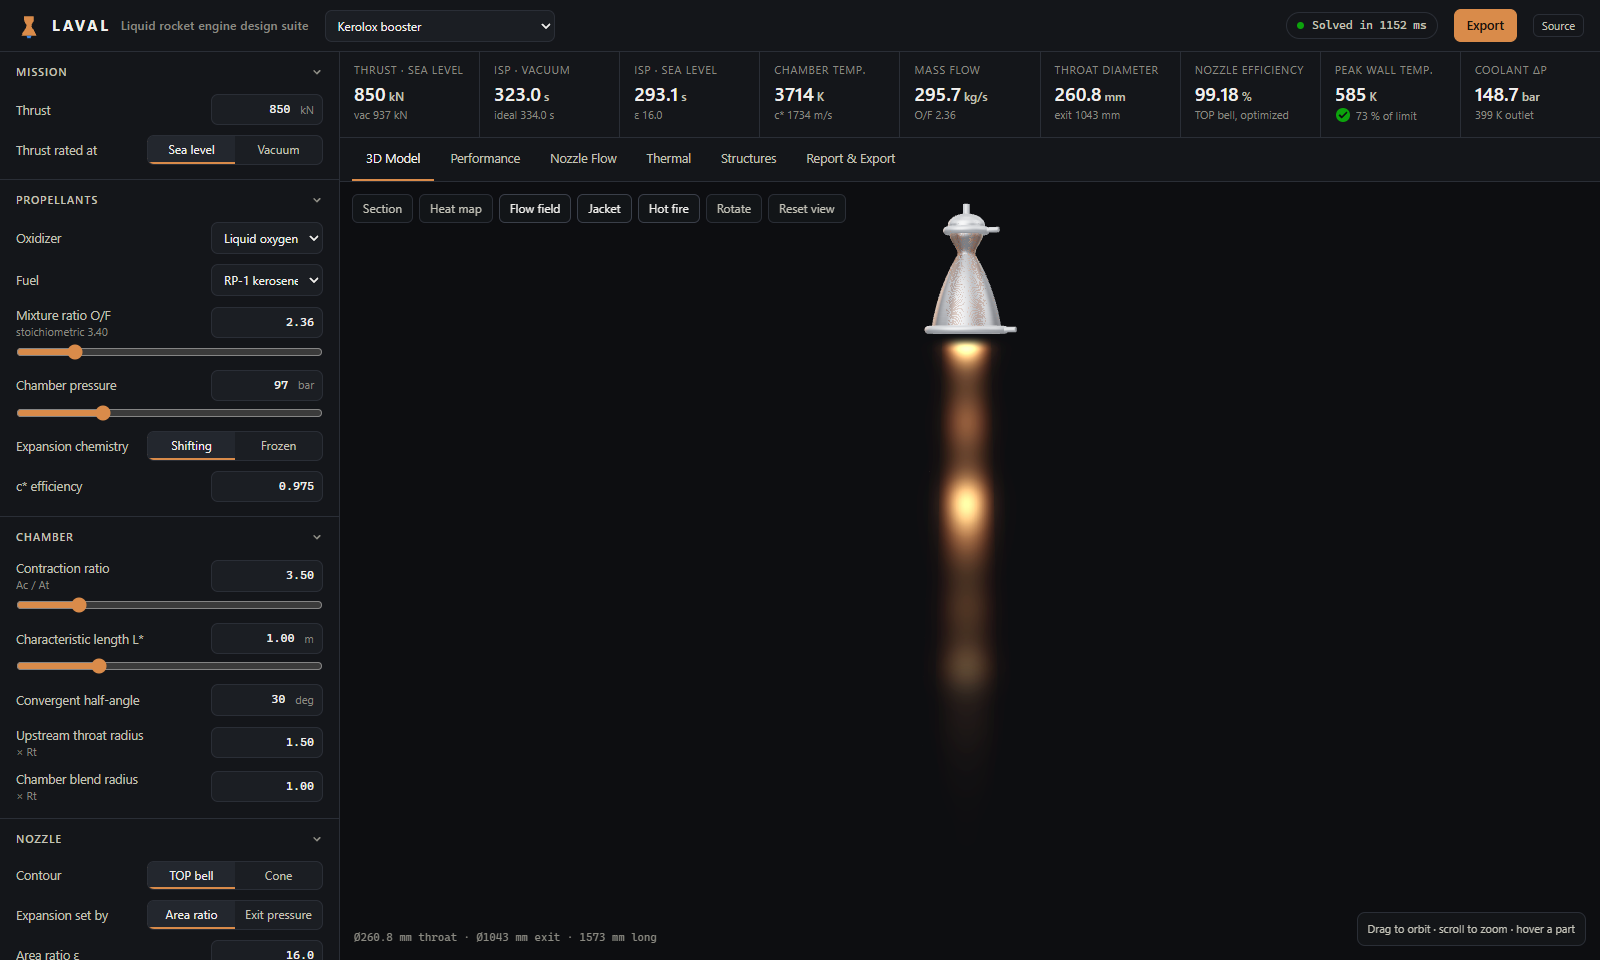
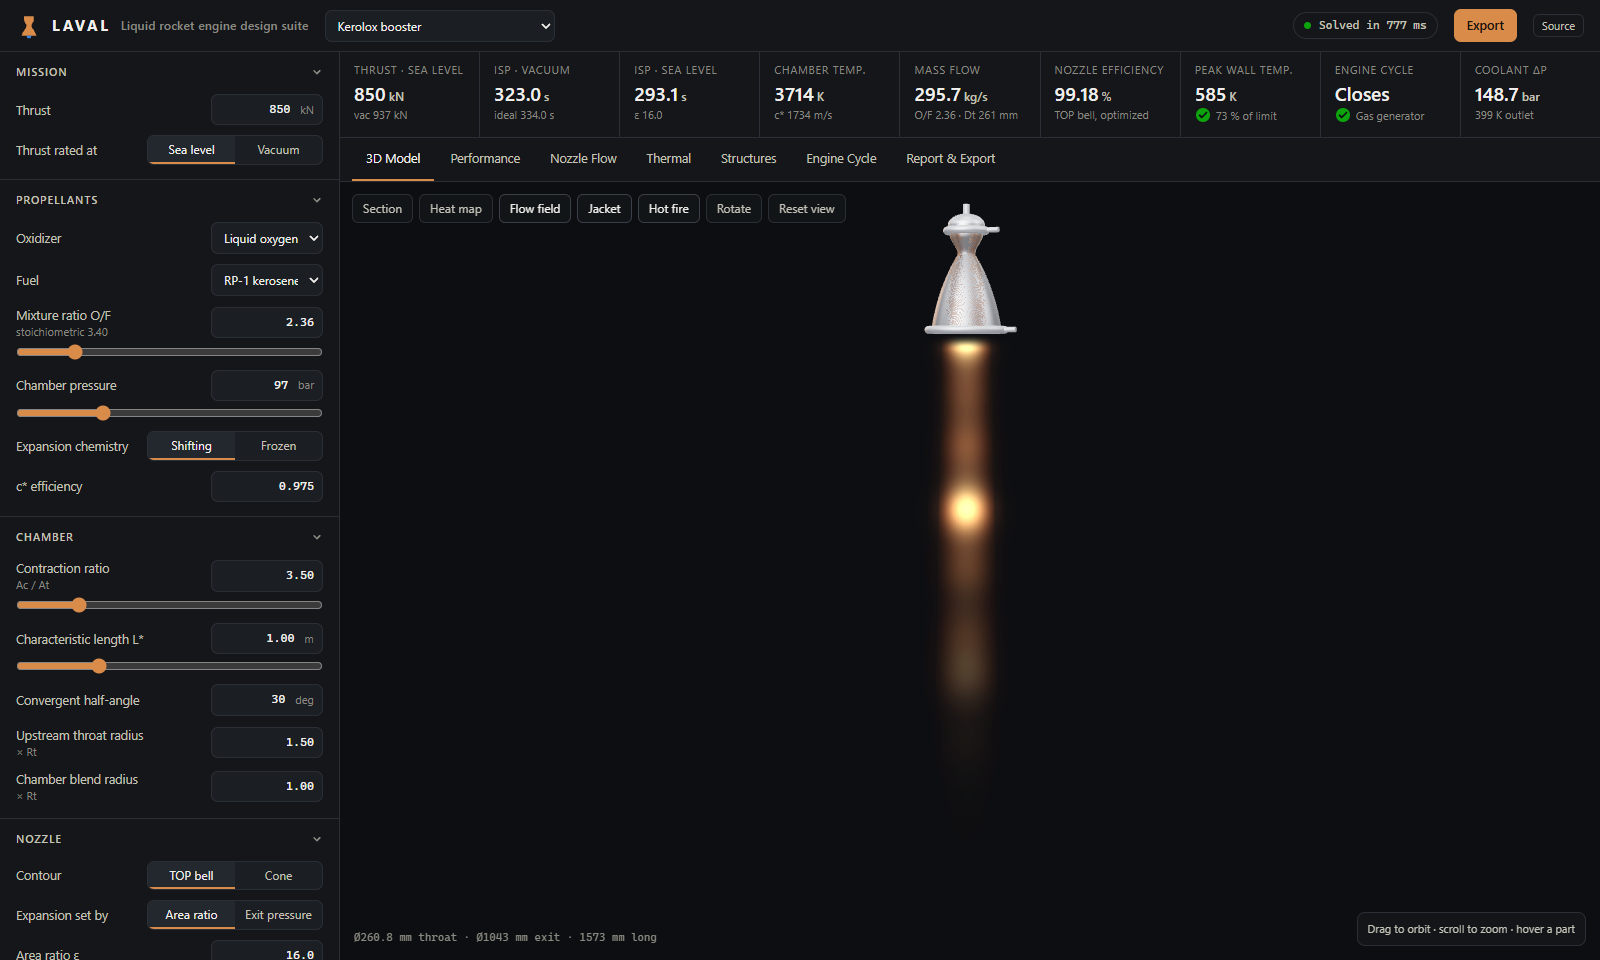
Document the engine cycle analysis, refresh screenshots, add CI badge

diff --git a/README.md b/README.md
@@ -1,8 +1,10 @@
 # Laval: liquid rocket engine design suite
 
+[![CI](https://github.com/zaindahdul/Aero/actions/workflows/ci.yml/badge.svg)](https://github.com/zaindahdul/Aero/actions/workflows/ci.yml)
+
 **From propellant chemistry to a 3D-printable regeneratively cooled thrust chamber, in the browser.**
 
-Laval designs a complete liquid rocket thrust chamber from a handful of requirements (propellants, thrust, chamber pressure). It solves the combustion chemistry, sizes the chamber, optimizes and analyzes the supersonic nozzle flow, designs the regenerative cooling channels, checks structural margins, and generates a watertight solid model you can export to STL or DXF. Every stage is a physics model written from the governing equations and verified against reference solutions: NASA CEA, exact gas-dynamics solutions, and CoolProp.
+Laval designs a complete liquid rocket thrust chamber from a handful of requirements (propellants, thrust, chamber pressure). It solves the combustion chemistry, sizes the chamber, optimizes and analyzes the supersonic nozzle flow, designs the regenerative cooling channels, checks structural margins, closes the turbopump power cycle, and generates a watertight solid model you can export to STL or DXF. Every stage is a physics model written from the governing equations and verified against reference solutions: NASA CEA, exact gas-dynamics solutions, and CoolProp.
 
 ![Methalox booster in half-section with the supersonic Mach field](docs/screenshots/hero.png)
 
@@ -25,6 +27,9 @@ Propellants, O/F, Pc, thrust
  Regenerative cooling ─── Bartz gas side · CoolProp coolant · finned channels that bifurcate
         │                 liner and jacket auto-sized for safety factors · barrier film
         │                 radiation-cooled nozzle extension
+        ▼
+ Engine cycle ─────────── pressure-fed · gas generator · expander · staged · full-flow
+        │                 turbopump power balance, preburner chemistry, pressure ladder
         ▼
  Solid model ──────────── watertight liner, instanced ribs, jacket, manifolds, injector
                           → STL · DXF · CSV · JSON
@@ -53,6 +58,11 @@ A complete design (chemistry, contour optimization with 30 to 60 full flow solut
 - Radiation-cooled extensions and radiatively cooled engines use the wall energy balance h_g(T_aw − T_w) = εσT_w⁴.
 - Checks for coking, boiling, material limits and injector pressure budget.
 
+### Engine cycle
+- Pressure-fed, gas-generator, closed-expander, single-shaft staged combustion (fuel-rich, or oxidizer-rich for kerosene) and full-flow staged combustion, built on the converged chamber design.
+- Gas-generator and preburner mixture ratios come from the equilibrium solver at the turbine-inlet temperature limit. Expander turbine power comes from the coolant's regen heat pickup. Staged-combustion turbine pressure ratios are found as the lowest root of the power balance, since a higher turbine pressure ratio also raises pump discharge pressure.
+- The results reproduce known cycle behaviour from first principles. The hydrolox expander closes with about 28 % margin at a 240–250 K, PR ≈ 1.5 turbine. A 200 bar methalox engine closes as full-flow staged combustion but not as single-shaft fuel-rich, because methane-rich gas (γ ≈ 1.15) yields too little work per unit pressure ratio. The kerolox gas generator burns 7 % of the propellant and costs 14 s of Isp.
+
 ### CAD kernel
 - Revolved shells with normal-offset layers, swept rib solids (one geometry per bifurcation level, instanced by rotation), auto-sized jacket, manifolds, injector plate, dome and element posts.
 - Every body is verified watertight and outward-oriented in the test suite.
@@ -60,7 +70,7 @@ A complete design (chemistry, contour optimization with 30 to 60 full flow solut
 
 ## Verification
 
-Each row is enforced by `npm test` (304 tests).
+Each row is enforced by `npm test` (312 tests), which runs on every push in CI.
 
 | Model | Reference | Result |
 |---|---|---|
@@ -71,6 +81,8 @@ Each row is enforced by `npm test` (304 tests).
 | Bell optimizer | Rao's TOP charts | Optimal angles inside the published band; longer bells strictly better |
 | Coolant properties | CoolProp | ρ within 1 %, cp within 3 % near the pseudo-critical line, μ and k within 2 % |
 | Engine pipeline | Conservation laws | F = ṁ·Isp·g0 exactly; coolant Q = ṁΔh within 2 %; all five presets inside material limits |
+| Engine cycles | Power balance and known cycle behaviour | Turbine power = pump power to 1e-6; expander heat-limited with Pc; full-flow closes where single-shaft methane cannot |
+| Robustness | 40 randomized designs | Every case solves or fails with an actionable message; no non-finite results |
 | Solid model | Closed-manifold and volume checks | Watertight, outward-oriented bodies; mass within 6 % of the thermal model |
 
 ## Screenshots
@@ -80,23 +92,24 @@ Each row is enforced by `npm test` (304 tests).
 | ![Flow field](docs/screenshots/nozzle-flow.png) **Nozzle flow**: characteristic net (upper half) over the Mach field, internal shock origin marked | ![Thermal](docs/screenshots/thermal.png) **Thermal**: wall and coolant temperatures, heat flux and transfer coefficients along the chamber |
 | ![Hot fire](docs/screenshots/hot-fire.png) **Hot fire**: plume colour from propellant chemistry, shock-cell spacing from the exit Mach number | ![Heat map](docs/screenshots/heat-map.png) **Radiation-cooled apogee engine**: barrier-cooled niobium wall temperature with the flow field inside |
 | ![Performance](docs/screenshots/performance.png) **Performance**: CEA-style state table, species, O/F and altitude sweeps | ![Hydrolox](docs/screenshots/hydrolox-extension.png) **Hydrolox upper stage**: carbon-carbon extension at 1900 K above a hydrogen-cooled jacket |
+| ![Full-flow cycle](docs/screenshots/engine-cycle.png) **Full-flow staged combustion**: two preburners, pressure ladder from 547 bar pump discharge to the chamber | ![Expander cycle](docs/screenshots/expander-cycle.png) **Closed expander**: turbine driven by regen heat, closing with 28 % margin |
 
 ## Presets
 
-| Preset | Propellants | Thrust | Pc | Notable |
-|---|---|---|---|---|
-| Methalox booster | LOX / CH4 | 2.2 MN (SL) | 200 bar | 360 high-aspect-ratio channels, 3 bifurcations, 3 % barrier film |
-| Kerolox booster | LOX / RP-1 | 850 kN (SL) | 97 bar | CuCrZr liner kept below the RP-1 coking limit |
-| Hydrolox upper stage | LOX / LH2 | 110 kN (vac) | 44 bar | Regen to ε 45, radiation-cooled C/C extension to ε 84 |
-| Student 5 kN ethanol | LOX / ethanol | 5 kN (SL) | 20 bar | Ideally expanded at sea level, supercritical ethanol coolant |
-| Hypergolic apogee | N2O4 / MMH | 450 N (vac) | 10 bar | Fully radiation cooled, niobium wall with barrier cooling |
+| Preset | Propellants | Thrust | Pc | Cycle | Notable |
+|---|---|---|---|---|---|
+| Methalox booster | LOX / CH4 | 2.2 MN (SL) | 200 bar | Full-flow staged | 360 high-aspect-ratio channels, 3 bifurcations, 590 bar coolant |
+| Kerolox booster | LOX / RP-1 | 850 kN (SL) | 97 bar | Gas generator | CuCrZr liner kept below the RP-1 coking limit |
+| Hydrolox upper stage | LOX / LH2 | 110 kN (vac) | 44 bar | Closed expander | Regen to ε 45, radiation-cooled C/C extension to ε 84 |
+| Student 5 kN ethanol | LOX / ethanol | 5 kN (SL) | 20 bar | Pressure-fed | Ideally expanded at sea level, supercritical ethanol coolant |
+| Hypergolic apogee | N2O4 / MMH | 450 N (vac) | 10 bar | Pressure-fed | Fully radiation cooled, niobium wall with barrier cooling |
 
 ## Running it
 
 ```bash
 npm install
 npm run dev      # http://localhost:5173
-npm test         # 304 verification tests
+npm test         # 312 verification tests
 npm run build    # static production build in dist/
 ```
 
@@ -118,6 +131,7 @@ src/core/                     pure TypeScript physics, no DOM
   nozzle/                     contour, MoC, Euler space-march, hybrid analysis, optimizer
   thermal/                    regenerative / radiative cooling and structures, materials
   fluids/                     CoolProp coolant tables
+  cycle.ts                    turbopump power-cycle balance
   cad/                        mesh kernel, engine solid model, STL / DXF / CSV export
   design.ts                   end-to-end pipeline
 src/worker/                   solver Web Worker
@@ -135,6 +149,7 @@ Laval is a preliminary-design tool. These assumptions are deliberate, and each o
 - Bartz is an empirical correlation (typically ±20–30 % at the throat); a multiplier is exposed for calibration. Two-phase coolant boiling is flagged, not modelled.
 - Stresses are analytic (channel-span plate bending, through-wall thermal stress, thin-shell hoop), not finite elements. Material data are representative handbook values.
 - Injector sizing is first-order (orifice equation).
+- Cycle turbomachinery uses constant efficiencies, incompressible pumps and perfect-gas turbines at the turbine-inlet state, with no turbopump maps or transients.
 
 ## References
 
